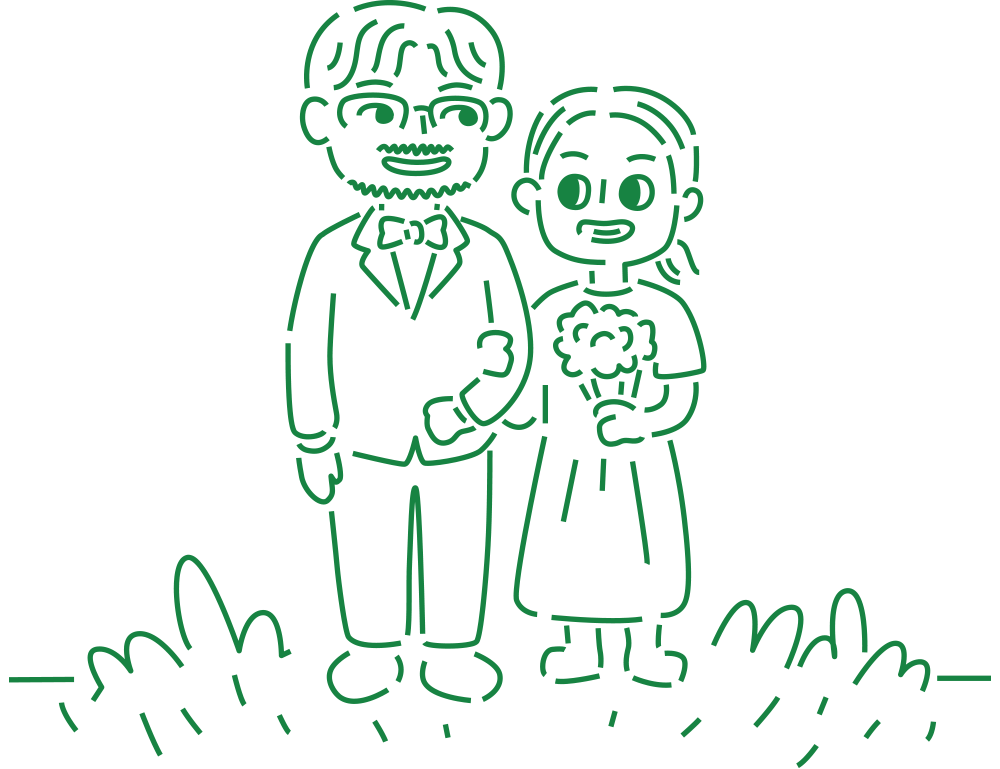
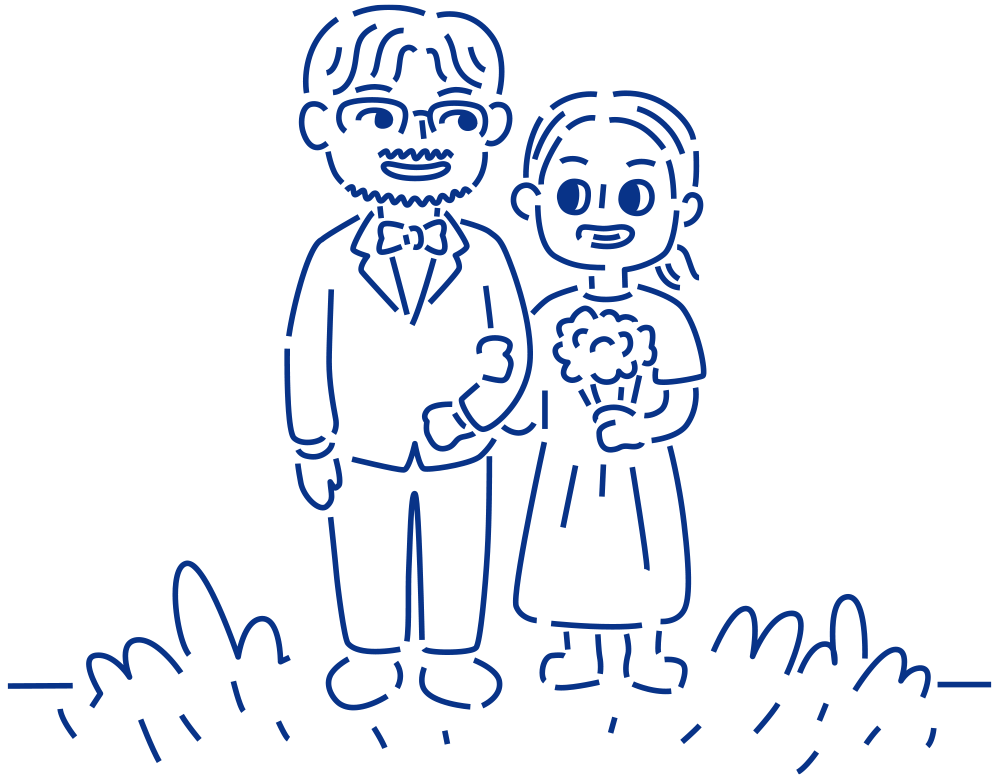
색상 수정. 문구 수정

diff --git a/index.html b/index.html
@@ -12,24 +12,19 @@
 	<body>
 		<div id = "container">
 			<div class="textBox" id="mainTextBox">
-				<div id="textMainTitle">
-				박경원 ♥ 임수연 <br>
-				</div>
+				<img src="images/title.png" id="mainTitle" />
 				<div id="textMain">
-				결혼합니다<br>
-				</div>
 				2023월 2월 25일 오후 2시 30분<br>
-				청담더채플 6층 채플홀<br>
+				더채플앳청담 6층 채플홀<br>
+				</div>
+				
 				<img src="images/illust.png" id="mainIllust" />
 			</div>
 			<div id="textGreeting">
-				테스트용 문구 <br>
-				서로가 마주보며 다져온 사랑을<br>
-				이제 함께 한 곳을 바라보며<br>
-				걸어갈 수 있는 큰 사랑으로 키우고자 합니다.<br>
-				저희 두 사람이 사랑의 이름으로<br>
-				지켜나갈 수 있게 앞날을<br>
-				축복해 주시면 감사하겠습니다.<br>
+				가족 같은 회사에서 만난 인연이<br>
+				진짜 가족이 되었습니다.<br>
+				서로 사랑하고 존중하며<br>
+				평생의 동료가 되겠습니다.<br>
 			</div>
 
 			<div id="chapterTitle">

diff --git a/style.css b/style.css
@@ -1,7 +1,7 @@
 body {
 	margin :0;
-	background : #178342;
-	color:  #178342;
+	background : #083388;
+	color:  #083388;
 	text-align:center;
 	font-size:30pt;
 	line-height:60px;
@@ -20,17 +20,16 @@ div {
 	margin-top:30px;
 }
 
-#textMainTitle {
-	margin-top:50px;
+#mainTitle {
+	margin-top:100px;
 }
 
 #textMain {
-	font-size:35pt;
-	font-weight: 900;
+	margin-top:40px;
 }
 
 #mainIllust {
-	margin-top:60px;
+	margin-top:80px;
 	width:100%;
 }
 
@@ -82,7 +81,7 @@ div {
 	width:974px;
 	height:800px;
 	margin:0 auto;
-	background-color: #178342;
+	background-color: #083388;
 	overflow: hidden;
 	-webkit-user-select:none;
 	-moz-user-select:none;
@@ -148,7 +147,7 @@ div {
 	width:420px;
 	height:110px;
 	line-height:100px;
-	background-color:#198342;
+	background-color:#083388;
 	margin:0 auto;
 	margin-top:10px;
 	margin-bottom:30px;
@@ -199,7 +198,7 @@ div {
 	margin:0 auto;
 	margin-top:70px;
 	line-height: 100px;
-	background-color:#198342;
+	background-color:#083388;
 	color:white;
 	cursor:pointer;
 	z-index:2;
